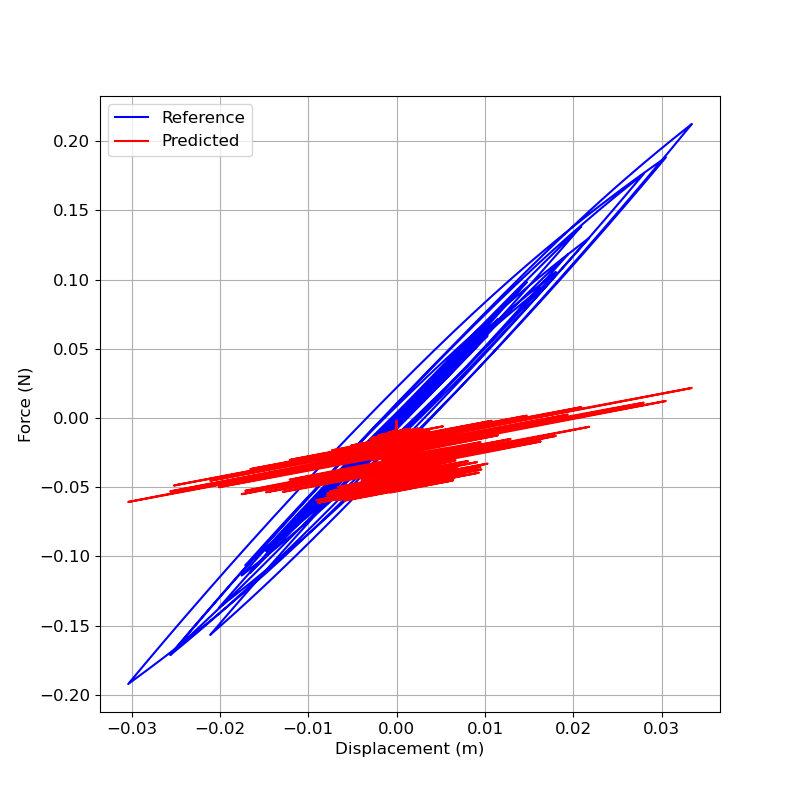
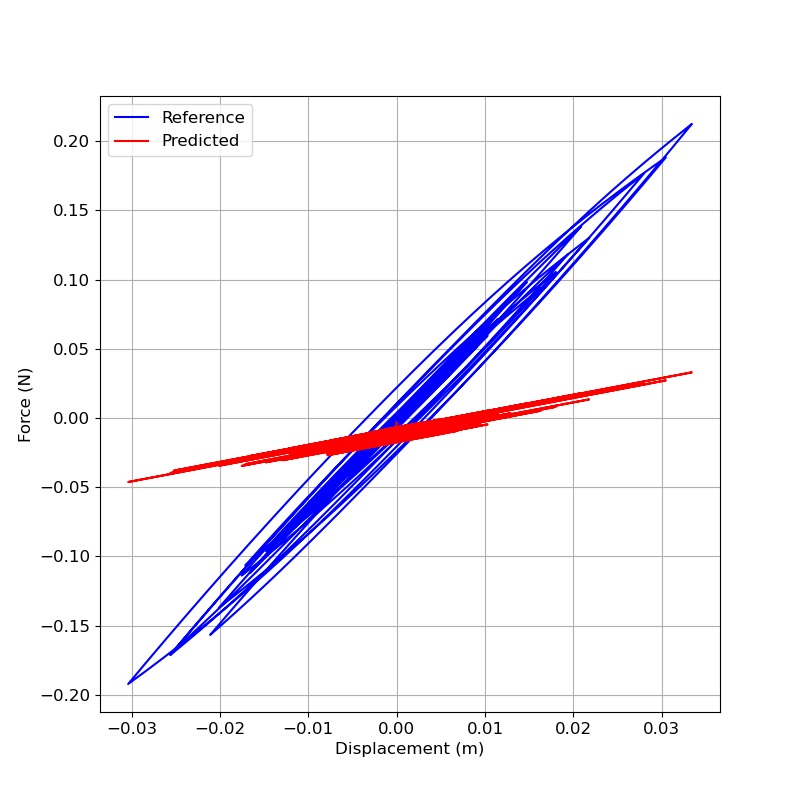
Generate code for large NN

Changed region(s): [[0.1562, 0.4688, 0.875, 0.625]]

diff --git a/BWBNTesting_Training.py b/BWBNTesting_Training.py
@@ -120,114 +120,19 @@ def train(X_train,
             states = (states[0].detach(), states[1].detach())
             
         avg_loss = sum(losses) / len(losses)
-
+        
+        val_loss = []
         # 일정 주기마다 손실 출력
         if (epoch + 1) % checkpoint_epoch == 0:
             print(f'Epoch {epoch + 1}/{num_epochs}, Loss: {avg_loss}')
             y_pred, _ = model(X_val)
             loss = criterion(y_pred[:, :, 0], y_val, mask_val)
+            val_loss.append(loss.item())
             print(f'Validation Loss: {loss.item()}')
-            torch.save(model.state_dict(), os.path.normpath(os.path.join(checkpoint_dir, 'checkpoint_short_{}.pth'.format(epoch+1))))
-    
+            torch.save(model.state_dict(), os.path.normpath(os.path.join(checkpoint_dir, 'checkpoint_LARGENN_{}.pth'.format(epoch+1))))
+        
+        np.savez(os.path.normpath(os.path.join(checkpoint_dir, 'losses_LARGENN.npz')), val_loss=val_loss)
     return model
 
 
 
-# def train(nn_size,
-#           num_inputs,
-#           output_factor,
-#           loss_weights,
-#           optimizer,
-#           batch_size,
-#           buffer_size,
-#           num_epochs,
-#           model_dir,
-#           processed_data_dir,
-#           test_size):
-
-#     os.makedirs(model_dir, exist_ok=True)
-#     from tensorflow.python.client import device_lib
-#     device_lib.list_local_devices()
-
-
-#     """Load data"""
-#     # Total energy as input
-#     Processed_data = np.load(os.path.normpath(os.path.join(processed_data_dir, './Processed_data.npz')))
-#     X_train, Xb_train, Xc_train, y_train, ye_train = Processed_data['X_train'], Processed_data['Xb_train'], Processed_data['Xc_train'], Processed_data['y_train'], Processed_data['ye_train']
-
-#     X, Xb, Xc, y, ye = X_train, Xb_train, Xc_train, y_train, ye_train
-#     train_idx, val_idx = train_test_split(range(X.shape[0]), test_size=test_size, random_state=0)
-#     X_train, Xb_train, Xc_train, X_val, Xb_val, Xc_val = X[train_idx], Xb[train_idx], Xc[train_idx], X[val_idx], Xb[val_idx], Xc[val_idx]
-#     y_train, y_val, ye_train, ye_val = y[train_idx], y[val_idx], ye[train_idx], ye[val_idx]
-
-#     print(X_train.shape, Xb_train.shape, Xc_train.shape, y_train.shape)
-#     print(X_val.shape, Xb_val.shape, Xc_val.shape, y_val.shape)
-
-#     del Processed_data
-    
-#     Xa_train = tf.data.Dataset.from_tensor_slices(X_train[:, 1:, :])
-#     Xb_train = tf.data.Dataset.from_tensor_slices(Xb_train)
-#     Xc_train = tf.data.Dataset.from_tensor_slices(Xc_train)
-#     Xd_train = tf.data.Dataset.from_tensor_slices(X_train[:, :, 0])
-    
-#     y_train = tf.data.Dataset.from_tensor_slices(y_train)
-#     ye_train = tf.data.Dataset.from_tensor_slices(ye_train)
-
-
-#     Xa_val = tf.data.Dataset.from_tensor_slices(X_val[:, 1:, :])
-#     Xb_val = tf.data.Dataset.from_tensor_slices(Xb_val)
-#     Xc_val = tf.data.Dataset.from_tensor_slices(Xc_val)
-#     Xd_val = tf.data.Dataset.from_tensor_slices(X_val[:, :, 0])
-
-#     y_val = tf.data.Dataset.from_tensor_slices(y_val)
-#     ye_val = tf.data.Dataset.from_tensor_slices(ye_val)
-
-#     train_dataset = tf.data.Dataset.zip(((Xa_train, Xb_train, Xc_train, Xd_train), (y_train, ye_train)))
-#     train_dataset = train_dataset.cache("GPU")
-#     train_dataset = train_dataset.batch(batch_size)
-#     val_dataset = tf.data.Dataset.zip(((Xa_val, Xb_val, Xc_val, Xd_val), (y_val, ye_val)))
-#     val_dataset = val_dataset.cache("GPU")
-#     val_dataset = val_dataset.batch(batch_size)
-#     """Generate the model"""
-
-#     # Total energy as input
-#     keras.backend.clear_session()
-
-#     input_A = keras.layers.Input((num_inputs-1, 2))
-#     input_A0 = keras.layers.Input(num_inputs)
-#     norm_layer = keras.layers.Normalization(axis=-1)(input_A)
-
-#     input_B = keras.layers.Input(2)
-#     hidden_B1 = keras.layers.Dense(1)(input_B)  # (None, 1), initial condition for z
-
-#     input_C = keras.layers.Input(1)
-#     norm_layer_C = keras.layers.Normalization(axis=-1)(input_C)
-#     hidden_C1 = keras.layers.Dense(1)(norm_layer_C)  # total initial energy
-
-#     init_h = tf.repeat(hidden_B1, nn_size, axis=1)
-#     init_c = tf.repeat(hidden_C1, nn_size, axis=1)
-
-#     hidden_1 = keras.layers.LSTM(nn_size, activation='tanh', return_sequences=True)(norm_layer, initial_state=[init_h, init_c]) # z
-
-#     output_layer_0 = keras.layers.Dense(1)(hidden_1)
-#     output_layer_f = output_layer_0[:,-1]
-
-#     ds_layer = input_A0[:, 1:]-input_A0[:, :-1]
-#     pre_layer_0 = tf.concat([tf.expand_dims(input_B[:,0], -1), output_layer_0[:, :, 0]], axis=1)
-#     pre_layer_1 = 1/2*(pre_layer_0[:, 1:]+pre_layer_0[:, :-1])
-#     output_layer_2 = tf.math.multiply(ds_layer, pre_layer_1)*output_factor
-#     output_layer_e0 = tf.reduce_sum(output_layer_2, 1, keepdims=True)
-#     output_layer_e = output_layer_e0+input_C
-
-#     DNN_model = keras.models.Model(inputs=[input_A, input_B, input_C, input_A0], outputs=[output_layer_f, output_layer_e])
-#     print(DNN_model.summary())
-
-
-#     """Compile the model"""
-#     DNN_model.compile(loss=[['mse'], ['mse']], loss_weights=loss_weights, optimizer=optimizer)
-#     model_checkpoint_cb = keras.callbacks.ModelCheckpoint(os.path.normpath(os.path.join(model_dir, './PINN_{}_{}_{}'.format(num_inputs, nn_size, 40))), save_best_only=True)
-
-
-#     """Train the model"""
-#     history = DNN_model.fit(train_dataset, epochs=num_epochs,
-#                             validation_data=val_dataset, callbacks=[model_checkpoint_cb])

diff --git a/BWBNTesting_main.py b/BWBNTesting_main.py
@@ -82,14 +82,14 @@ Data = np.load(os.path.normpath(os.path.join(processed_data_dir, './Processed_da
 X_train, X_val, y_train, y_val = Data['X_train'], Data['X_val'], Data['y_train'], Data['y_val']
 del Data
 X_train, mask_train, X_val, mask_val = X_train[:, :, :2], X_train[:, :, 2], X_val[:, :, :2], X_val[:, :, 2]
-nn_size = 40
-num_epochs = 300
+nn_size = 128
+num_epochs = 1000
 model_dir = '/home/jaehwan/Python Project/DLCM/BWBN Testing_torch/Models'
 os.makedirs(model_dir, exist_ok=True) 
-window_size = 100
-checkpoint_epoch = 2
-pretrained = os.path.normpath(os.path.join(model_dir, './checkpoint_{}.pth'.format(300)))
-
+window_size = 512
+checkpoint_epoch = 1
+pretrained = False
+checkpoint = False
 if pretrained != False:
     checkpoint = torch.load(pretrained)
 
@@ -111,7 +111,7 @@ Data = np.load(os.path.normpath(os.path.join(processed_data_dir, './Processed_da
 X_val, X_test, y_val, y_test = Data['X_val'], Data['X_test'], Data['y_val'], Data['y_test']
 del Data
 X_val, mask_val, X_test, mask_test = X_val[:, :, :2], X_val[:, :, 2], X_test[:, :, :2], X_test[:, :, 2]
-model_paths = [os.path.normpath(os.path.join(model_dir, './checkpoint_{}.pth'.format(i+2))) for i in range(0, num_epochs, checkpoint_epoch)]
+model_paths = [os.path.normpath(os.path.join(model_dir, './checkpoint_short_{}.pth'.format(i+2))) for i in range(0, num_epochs, checkpoint_epoch)]
 result_plot_dir = '/home/jaehwan/Python Project/DLCM/BWBN Testing_torch/Result Plots'
 os.makedirs(result_plot_dir, exist_ok=True)
 

diff --git a/BWBNTesting_ResultAnalysis.py b/BWBNTesting_ResultAnalysis.py
@@ -5,23 +5,6 @@ import numpy as np
 import matplotlib.pyplot as plt
 import BWBNTesting_Training
 
-# def result_plot(range_plot,
-#                 result_plot_dir,
-#                 show_plot,
-#                 model_path,
-#                 hysteresis_data_dir,
-#                 num_inputs,
-#                 output_factor):
-#
-#     os.makedirs(result_plot_dir, exist_ok=True)
-#     DNN_model = keras.models.load_model(model_path)
-#
-#     for i in range(range_plot[0], range_plot[1]):
-#         data_path = os.path.normpath(os.path.join(hysteresis_data_dir, './{}.npz'.format(i)))
-#         save_path = os.path.normpath(os.path.join(result_plot_dir, './{}.png'.format(i)))
-#         test_plot(data_path, DNN_model, num_inputs, output_factor, save_path=save_path, show_plot=show_plot)
-
-
 def result_plot(X_val,
                 y_val,
                 mask_val,
@@ -52,7 +35,7 @@ def result_plot(X_val,
         print('Validation Loss: {}'.format(loss.item()))
     
     best_model_idx = np.argmin(losses)
-    checkpoint = torch.load(model_paths[-1])
+    checkpoint = torch.load(model_paths[best_model_idx])
     model = BWBNTesting_Training.CustomLSTM(2, nn_size, 1)
     model.load_state_dict(checkpoint)
     model = model.to(device)
